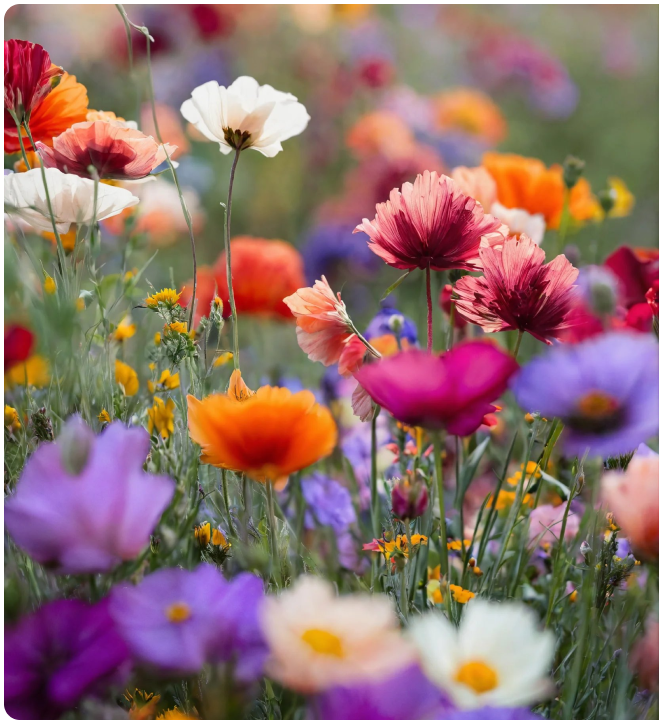
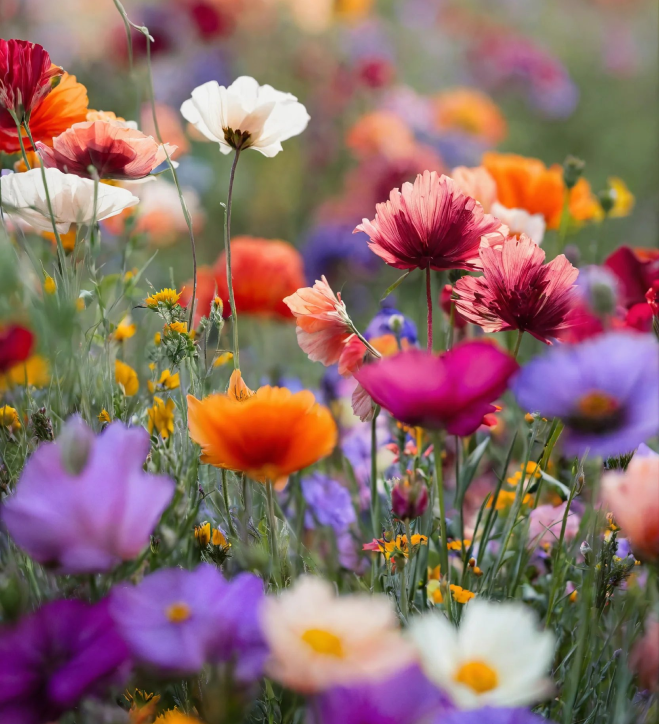
Third page responsiveness

Changed region(s): [[0.0, 0.0, 1.0, 1.0]]

diff --git a/src/components/pages/ResultsPage.jsx b/src/components/pages/ResultsPage.jsx
@@ -7,10 +7,10 @@ import DisplayCircleColour from "../DisplayCircleColor";
 
 function ResultsSection({ colors, prompt }) {
   return (
-    <section className='animate-sladeIn bg-result-page bg-cover bg-center w-full lg:h-[calc(100vh-60px)] border-y border-secondary-color content-center'>
-      <div className='relative w-full h-[85%] flex items-end text-sm xl:text-base text-primary-dark'>
-        <div className=' w-[64%] h-[87%] bg-primary-white overflow-y-auto py-6 pl-20 pr-10 mb-[1.5%] content-center '>
-          <h2 className='absolute top-0 left-[32%] -translate-x-1/2 font-caption text-3xl sm:text-4xl md:text-5xl xl:text-6xl text-brand-red'>
+    <section className='animate-sladeIn bg-result-page bg-contain bg-left-top bg-repeat-y lg:bg-cover bg-primary-color w-full lg:h-[calc(100vh-60px)] border-y border-secondary-color content-center'>
+      <div className='relative w-full h-[85%] py-16 lg:py-0 flex flex-col-reverse lg:flex-row items-end text-sm xl:text-base text-primary-dark '>
+        <div className='w-full lg:w-[64%] lg:h-[87%] bg-primary-white overflow-y-auto py-6 pl-20 pr-10 mb-[1.5%] content-center '>
+          <h2 className='absolute z-10 top-6 lg:top-0 left-1/2 lg:left-[32%] -translate-x-1/2 font-caption text-3xl sm:text-4xl md:text-5xl xl:text-6xl text-brand-red drop-shadow-title'>
             Your best choice
           </h2>
           {prompt ? (
@@ -27,14 +27,14 @@ function ResultsSection({ colors, prompt }) {
           </div>
         </div>
 
-        <div className='relative w-[36%] h-full'>
+        <div className='relative w-full h-full lg:w-[36%]'>
           <img
             src={ResultImg}
-            className='w-full h-full bg-contain shadow-shape rounded-l-xl'
+            className='w-full h-60 sm:h-36 lg:h-full shadow-shape rounded-t-2xl lg:rounded-none lg:rounded-l-2xl border-primary-white border-t-[3px] border-x-[3px] lg:border-l-[3px] lg:border-y-[3px] object-cover '
             alt='Flowers'
           />
 
-          <div className='absolute top-0 left-0 bottom-0 flex flex-col gap-[4%] justify-center flex-wrap px-8 pl-8'>
+          <div className='absolute inset-0 w-full px-[100px] py-7 sm:p-8 flex lg:flex-col gap-[4%] flex-wrap justify-center lg:items-start'>
             {colors.map((color) => (
               <DisplayCircleColour hex={color.hex} key={color.hex} />
             ))}
@@ -46,36 +46,3 @@ function ResultsSection({ colors, prompt }) {
 }
 
 export default ResultsSection;
-
-/*<section className='animate-sladeIn bg-result-page bg-cover bg-center w-full lg:h-[calc(100vh-60px)] border-y border-secondary-color animate-slideIn'>
-      <div className='flex flex-col md:flex-row w-full my-20 '>
-        <div className='w-full md:w-1/2 bg-white my-20 py-20'>
-          <h2 className='font-caption items-center text-center text-2xl md:text-3xl lg:text-[70px] text-brand-red results-title'>
-            Color Compass
-          </h2>
-          <div className='flex flex-col items-center'>
-            {/*<h3 className='text-center w-full pb-4'>
-              Thank you for choosing Color Compass.
-            </h3>
-            <p className='text-center w-full pb-4'>
-              <strong>{prompt}</strong>
-            </p>
-          </div>
-          <div className='flex flex-col gap-6 ps-36'>
-            {colors.map((color) => (
-              <DisplayColours key={color.hex} color={color} />
-            ))}
-          </div>
-        </div>
-        <div className='w-full md:w-1/2'>
-          {/*<ImageGenerator prompt={prompt} colors={colors} />
-
-          
-        </div>
-      </div>
-    </section>
-  );
-}
-
-export default ResultsSection;
-*/

diff --git a/src/components/pages/InputPage.jsx b/src/components/pages/InputPage.jsx
@@ -66,7 +66,7 @@ function InputSection({
 
   return (
     <main>
-      <section className='bg-input-page bg-cover bg-center w-full h-full lg:h-[calc(100vh-60px)] py-12 lg:py-0 border-y border-secondary-color animate-slideIn flex items-center'>
+      <section className='bg-input-page bg-cover bg-center w-full h-full lg:h-[calc(100vh-60px)] py-16 lg:py-0 border-y border-secondary-color animate-slideIn flex items-center'>
         <div className='relative h-[80%] w-full flex items-center gap-9 text-sm xl:text-base text-center text-primary-dark'>
           <Wrapper>
             <div className='absolute inset-0 top-8 bg-custom-mobile-gradient lg:bg-custom-gradient'></div>

diff --git a/src/components/DisplayColours.jsx b/src/components/DisplayColours.jsx
@@ -1,12 +1,12 @@
 function DisplayColours({ color }) {
   return (
-    <div className='flex gap-4'>
-      <div className='text-brand-light-green w-1/5 font-semibold'>
+    <div className='flex flex-col sm:flex-row gap-4'>
+      <div className='text-brand-light-green w-full sm:w-1/5 text-center sm:text-left font-semibold'>
         <p>
           {color.hex} <br /> {color.name}
         </p>
       </div>
-      <div className='w-4/5'> {color.description}</div>
+      <div className='w-full sm:w-4/5'> {color.description}</div>
     </div>
   );
 }

diff --git a/src/components/DisplayCircleColor.jsx b/src/components/DisplayCircleColor.jsx
@@ -1,10 +1,9 @@
 import { setContrastText } from "../utils/setContrastText";
 
 function DisplayCircleColour({ hex }) {
-  console.log(hex);
   return (
     <div
-      className={`rounded-full px-2 py-7 w-[85px] h-[85px] shadow-shape content-center`}
+      className={`rounded-full w-full p-2 sm:py-7 sm:w-[85px] sm:h-[85px] shadow-shape content-center`}
       style={{
         backgroundColor: hex,
         color: setContrastText(hex),

diff --git a/tailwind.config.js b/tailwind.config.js
@@ -30,6 +30,7 @@ export default {
 
       dropShadow: {
         link: "0 0 10px rgba(230, 111, 116, 0.5)",
+        title: "-2px 1px 2px rgba(255, 255, 255, 1)",
       },
 
       boxShadow: {
